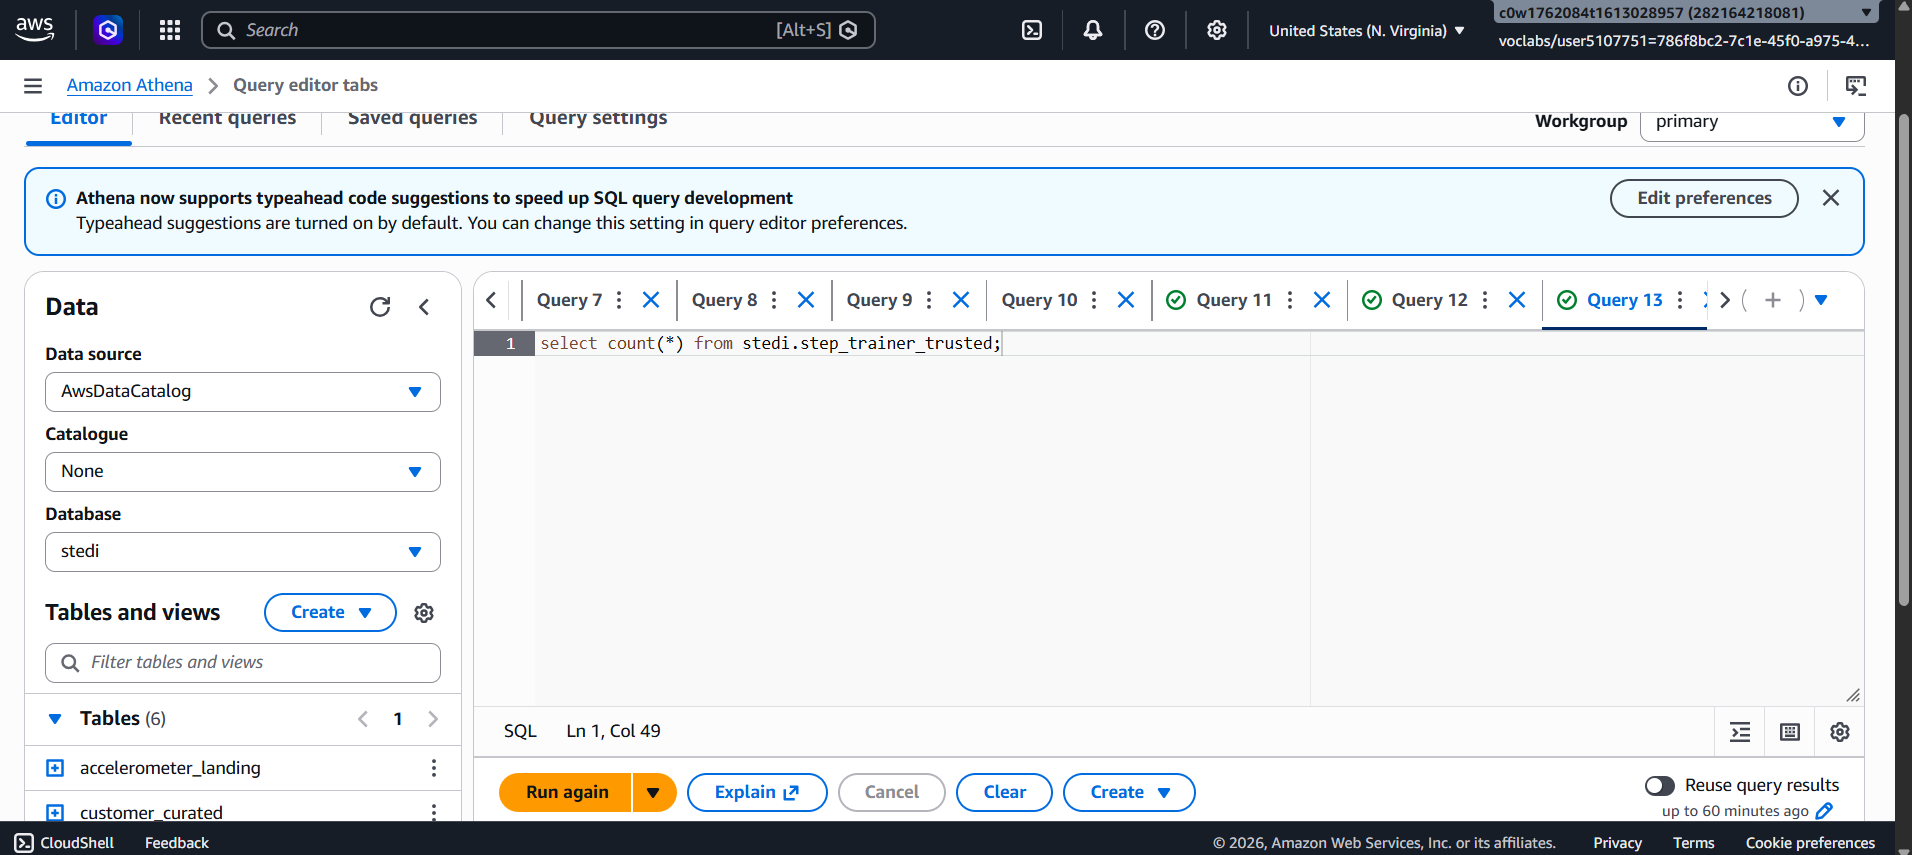
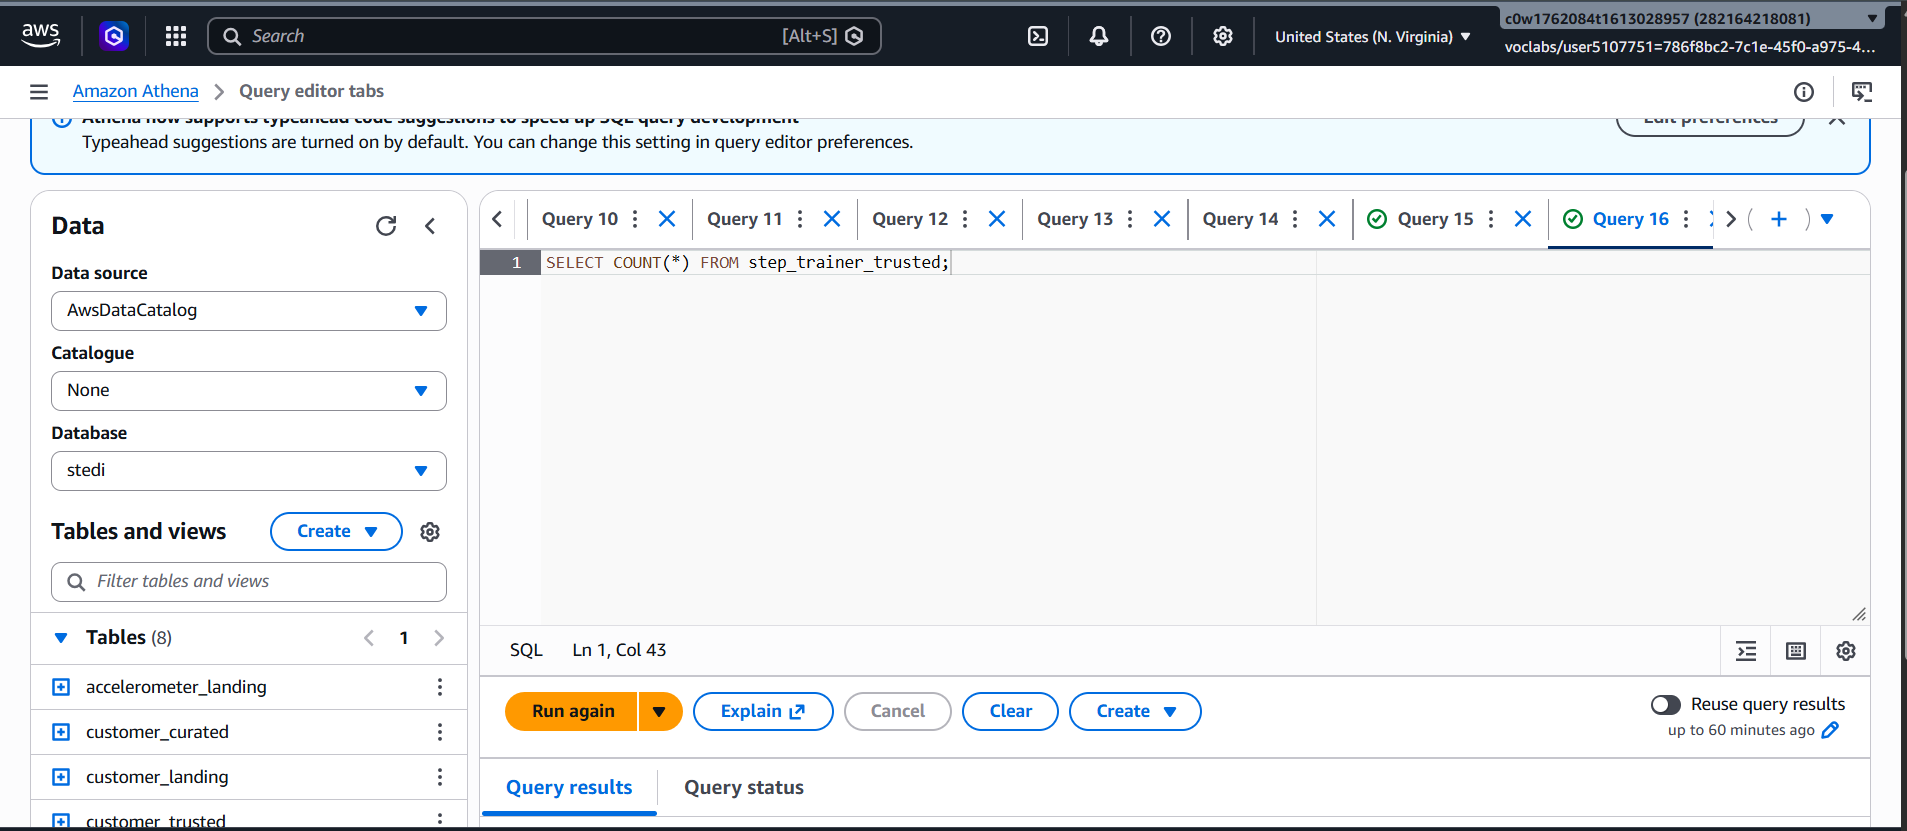
Add files via upload

diff --git a/accelerometer_landing_to_trusted.py b/accelerometer_landing_to_trusted.py
@@ -1,0 +1,32 @@
+import sys
+from awsglue.transforms import *
+from awsglue.utils import getResolvedOptions
+from pyspark.context import SparkContext
+from awsglue.context import GlueContext
+from awsglue.job import Job
+
+args = getResolvedOptions(sys.argv, ['JOB_NAME'])
+sc = SparkContext()
+glueContext = GlueContext(sc)
+spark = glueContext.spark_session
+job = Job(glueContext)
+job.init(args['JOB_NAME'], args)
+
+accelerometer_landing = spark.read.json(
+    "s3://stedi-human-balance-avvinash/accelerometer/landing/"
+)
+
+customer_trusted = spark.read.json(
+    "s3://stedi-human-balance-avvinash/customer/trusted/"
+)
+
+accelerometer_trusted = accelerometer_landing.join(
+    customer_trusted,
+    accelerometer_landing["user"] == customer_trusted["email"]
+).select(accelerometer_landing["*"]).distinct()
+
+accelerometer_trusted.write.mode("overwrite").json(
+    "s3://stedi-human-balance-avvinash/accelerometer/trusted/"
+)
+
+job.commit()